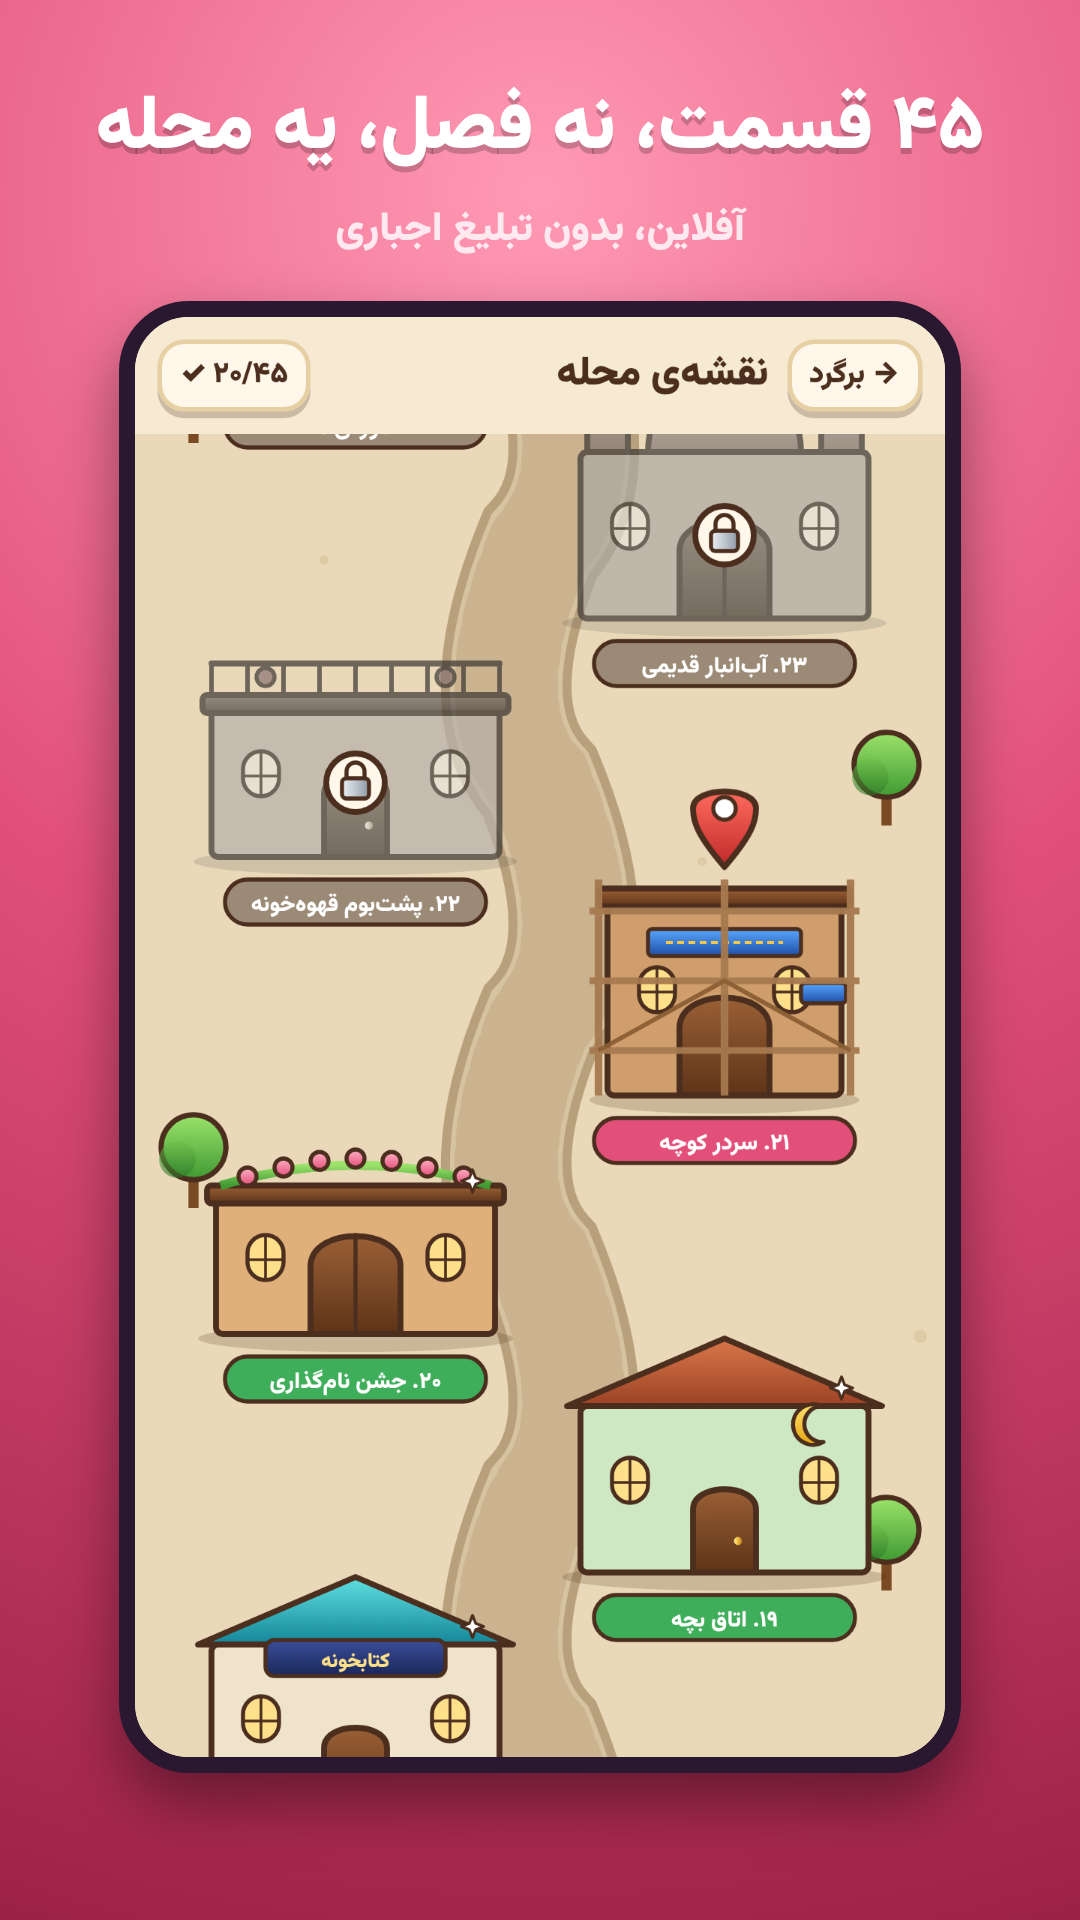
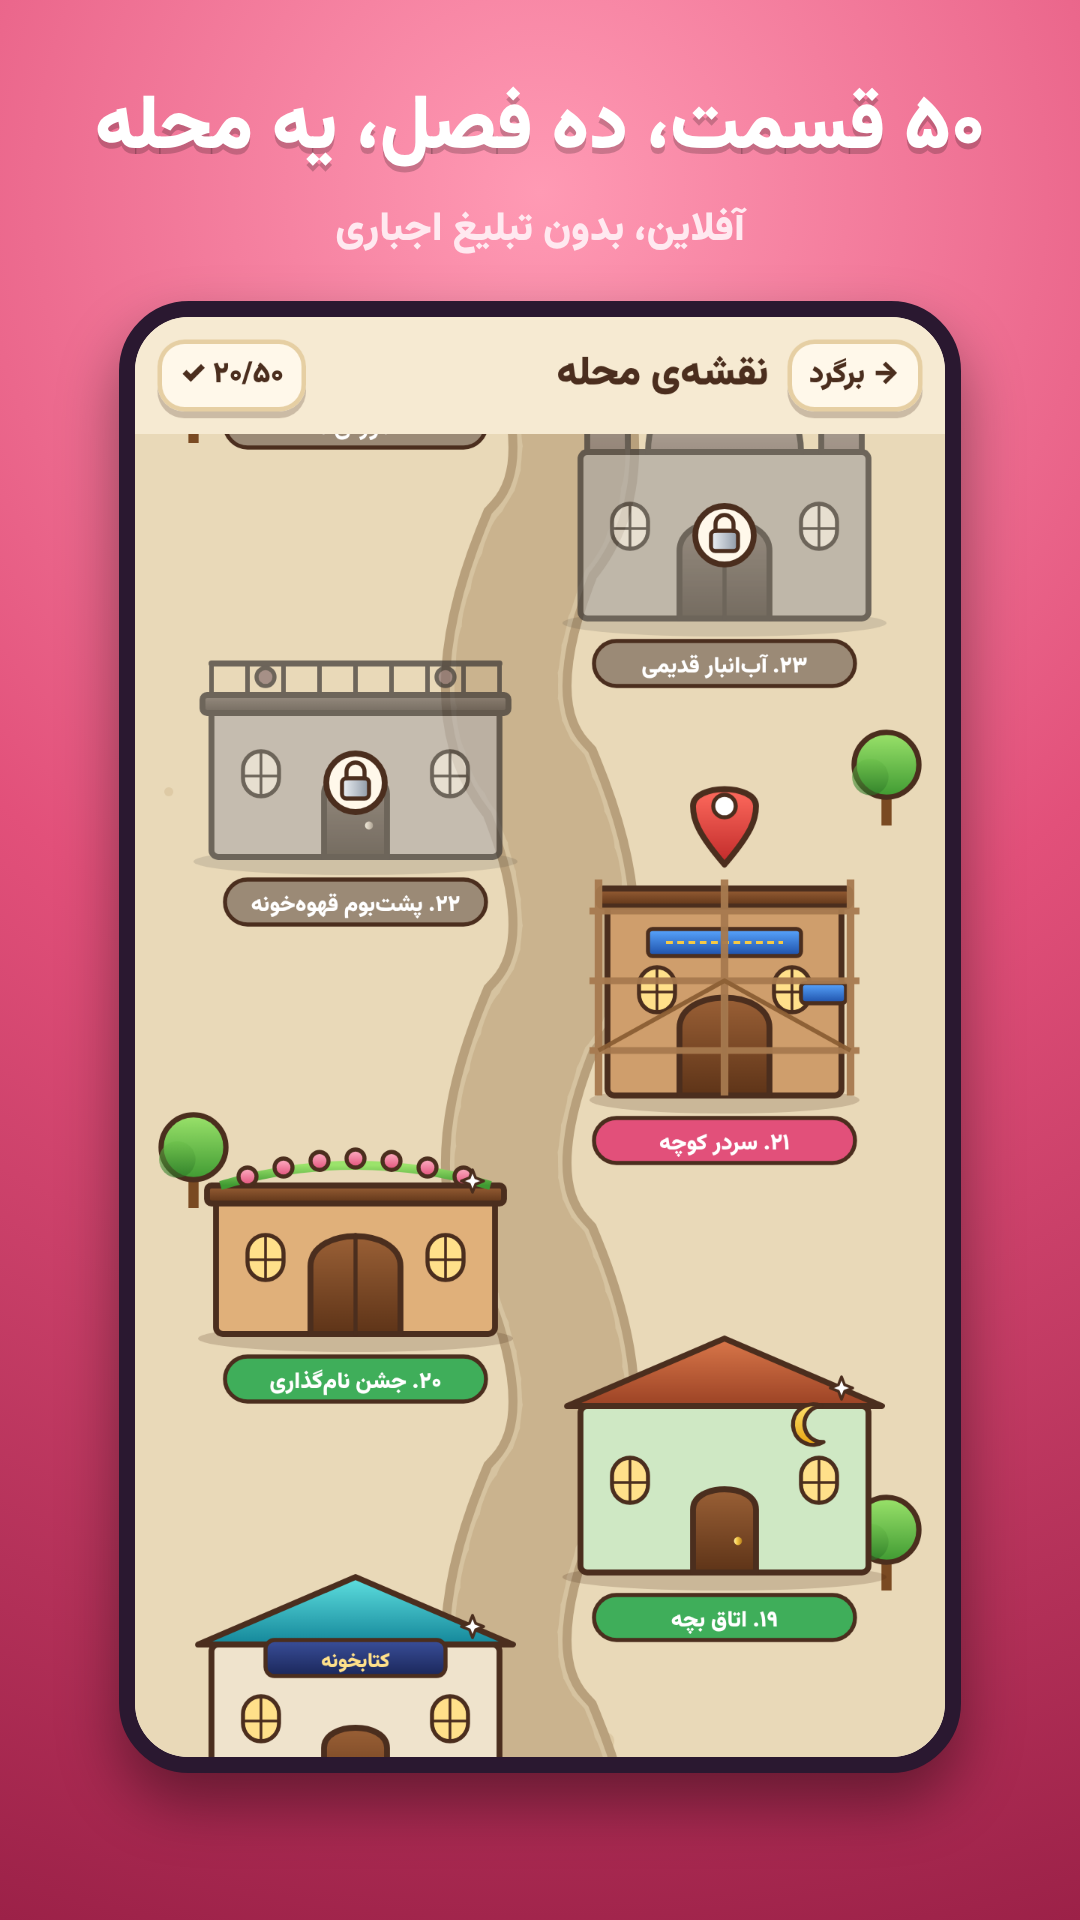
Stability pass over ten seasons; map store shot for 50 episodes
Claude-Session: https://claude.ai/code/session_012idHkvE1RqdQcsBNBZwP5S

Changed region(s): [[0.5194, 0.0312, 0.9167, 0.0938], [0.6417, 0.4062, 0.7028, 0.4375], [0.2444, 0.1875, 0.3056, 0.2188]]

diff --git a/PROGRESS.md b/PROGRESS.md
@@ -187,9 +187,14 @@ saves are written into localStorage `mahalle.save.v1`.
       own restoration school; «صنایع دستی» chain + easel at level 55); map of 50 places;
       trophy names fixed for the newer calendar events; Season 11 teased (UNESCO)
 
+- [x] Phase 20: stability pass over ten seasons — at 6× CPU throttle the splash shows in
+      ~0.8 s and the board in ~1 s (499 KB JS, 146 KB gzipped), the 50-place map opens in
+      ~350 ms with no long tasks while scrolling; the balance sim finishes all 45 tested
+      episodes in 20 of 20 games (~110 regen hours for the last ones); map store shot
+      refreshed
+
 Next (in order):
-1. Phase 20: polish and stability pass over the ten seasons (store shots, perf with 50
-   scenes, first-session check), then Season 11 «ثبت جهانی»
+1. Season 11 «ثبت جهانی»
 2. Owner: Bazaar account, signing key, GitHub secrets, upload (see `docs/LAUNCH-fa.md`)
 
 ## Needs from the owner (Amirhossein)
